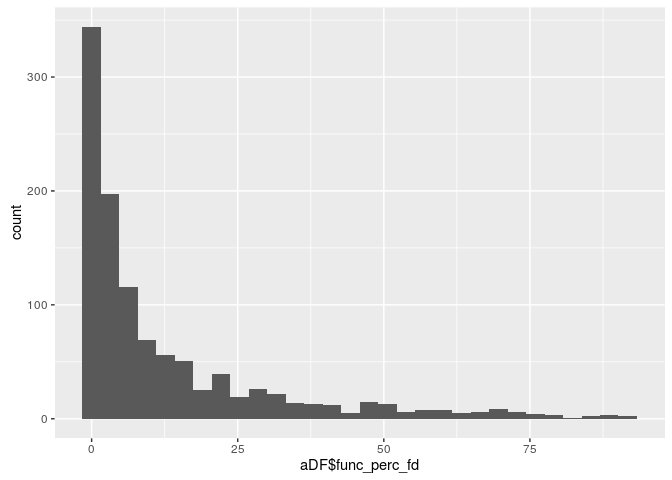
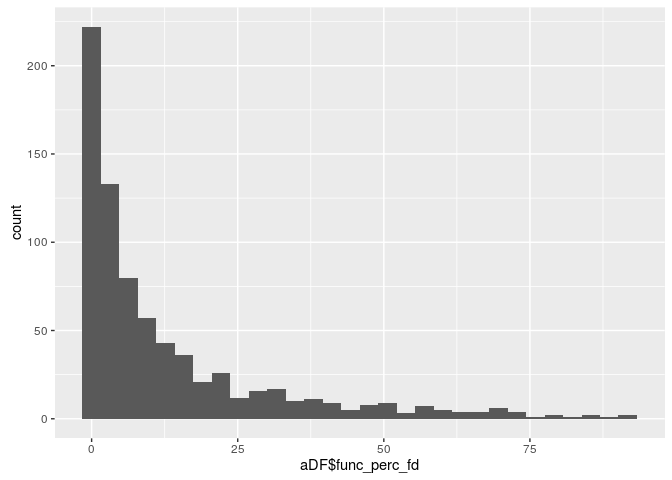
updated to include only our age range and meanfd

diff --git a/Motion/plot_rsq_rez.md b/Motion/plot_rsq_rez.md
@@ -3,7 +3,8 @@ Understanding QC parameters
 
     library(ggplot2)
     #check how percent and mean fd are related:
-    aDF <- read.csv('../../Phenotypic_V1_0b_preprocessed1.csv')
+    aDF_ <- read.csv('../../Phenotypic_V1_0b_preprocessed1.csv')
+    aDF <- aDF_[aDF_$AGE_AT_SCAN >= 6 & aDF_$AGE_AT_SCAN <= 18,]
     aplot <- ggplot(aDF, aes(y=func_mean_fd, x=func_perc_fd))+
         geom_point(alpha=.3)+
         geom_smooth()
@@ -32,19 +33,19 @@ Understanding QC parameters
     ## 
     ## Deviance Residuals: 
     ##    Min      1Q  Median      3Q     Max  
-    ## -5.139  -4.335  -2.537   1.040  14.139  
+    ## -6.213  -4.047  -2.364   1.246  14.738  
     ## 
     ## Coefficients:
-    ##              Estimate Std. Error t value Pr(>|t|)    
-    ## (Intercept)  2.595297   0.099993  25.955   <2e-16 ***
-    ## AGE_AT_SCAN -0.002000   0.005335  -0.375    0.708    
+    ##             Estimate Std. Error t value Pr(>|t|)    
+    ## (Intercept)  3.48868    0.22214  15.705  < 2e-16 ***
+    ## AGE_AT_SCAN -0.07280    0.01771  -4.112 4.35e-05 ***
     ## ---
     ## Signif. codes:  0 '***' 0.001 '**' 0.01 '*' 0.05 '.' 0.1 ' ' 1
     ## 
-    ## (Dispersion parameter for quasipoisson family taken to be 25.63276)
+    ## (Dispersion parameter for quasipoisson family taken to be 23.81071)
     ## 
-    ##     Null deviance: 22294  on 1098  degrees of freedom
-    ## Residual deviance: 22290  on 1097  degrees of freedom
+    ##     Null deviance: 14826  on 756  degrees of freedom
+    ## Residual deviance: 14420  on 755  degrees of freedom
     ##   (13 observations deleted due to missingness)
     ## AIC: NA
     ## 
@@ -59,6 +60,43 @@ Understanding QC parameters
     ## Warning: Removed 13 rows containing missing values (geom_point).
 
 ![](plot_rsq_rez_files/figure-markdown_strict/unnamed-chunk-1-3.png)<!-- -->
+
+    summary(glm(func_mean_fd ~ AGE_AT_SCAN, family='quasipoisson', data=aDF))
+
+    ## 
+    ## Call:
+    ## glm(formula = func_mean_fd ~ AGE_AT_SCAN, family = "quasipoisson", 
+    ##     data = aDF)
+    ## 
+    ## Deviance Residuals: 
+    ##      Min        1Q    Median        3Q       Max  
+    ## -0.47203  -0.26273  -0.15806   0.02104   1.94635  
+    ## 
+    ## Coefficients:
+    ##             Estimate Std. Error t value Pr(>|t|)    
+    ## (Intercept) -1.24008    0.20548  -6.035 2.49e-09 ***
+    ## AGE_AT_SCAN -0.05715    0.01622  -3.523 0.000453 ***
+    ## ---
+    ## Signif. codes:  0 '***' 0.001 '**' 0.01 '*' 0.05 '.' 0.1 ' ' 1
+    ## 
+    ## (Dispersion parameter for quasipoisson family taken to be 0.2156552)
+    ## 
+    ##     Null deviance: 100.098  on 756  degrees of freedom
+    ## Residual deviance:  97.407  on 755  degrees of freedom
+    ##   (13 observations deleted due to missingness)
+    ## AIC: NA
+    ## 
+    ## Number of Fisher Scoring iterations: 5
+
+    ggplot(aDF, aes(x=(AGE_AT_SCAN), y=func_mean_fd))+
+        geom_point()+
+        geom_smooth(method='glm', method.args=list(family='quasipoisson'))
+
+    ## Warning: Removed 13 rows containing non-finite values (stat_smooth).
+
+    ## Warning: Removed 13 rows containing missing values (geom_point).
+
+![](plot_rsq_rez_files/figure-markdown_strict/unnamed-chunk-1-4.png)<!-- -->
 
 The percentage of volumes with motion \> threshold is basically a count
 variable (normalized), so we should treat it as something like poisson
